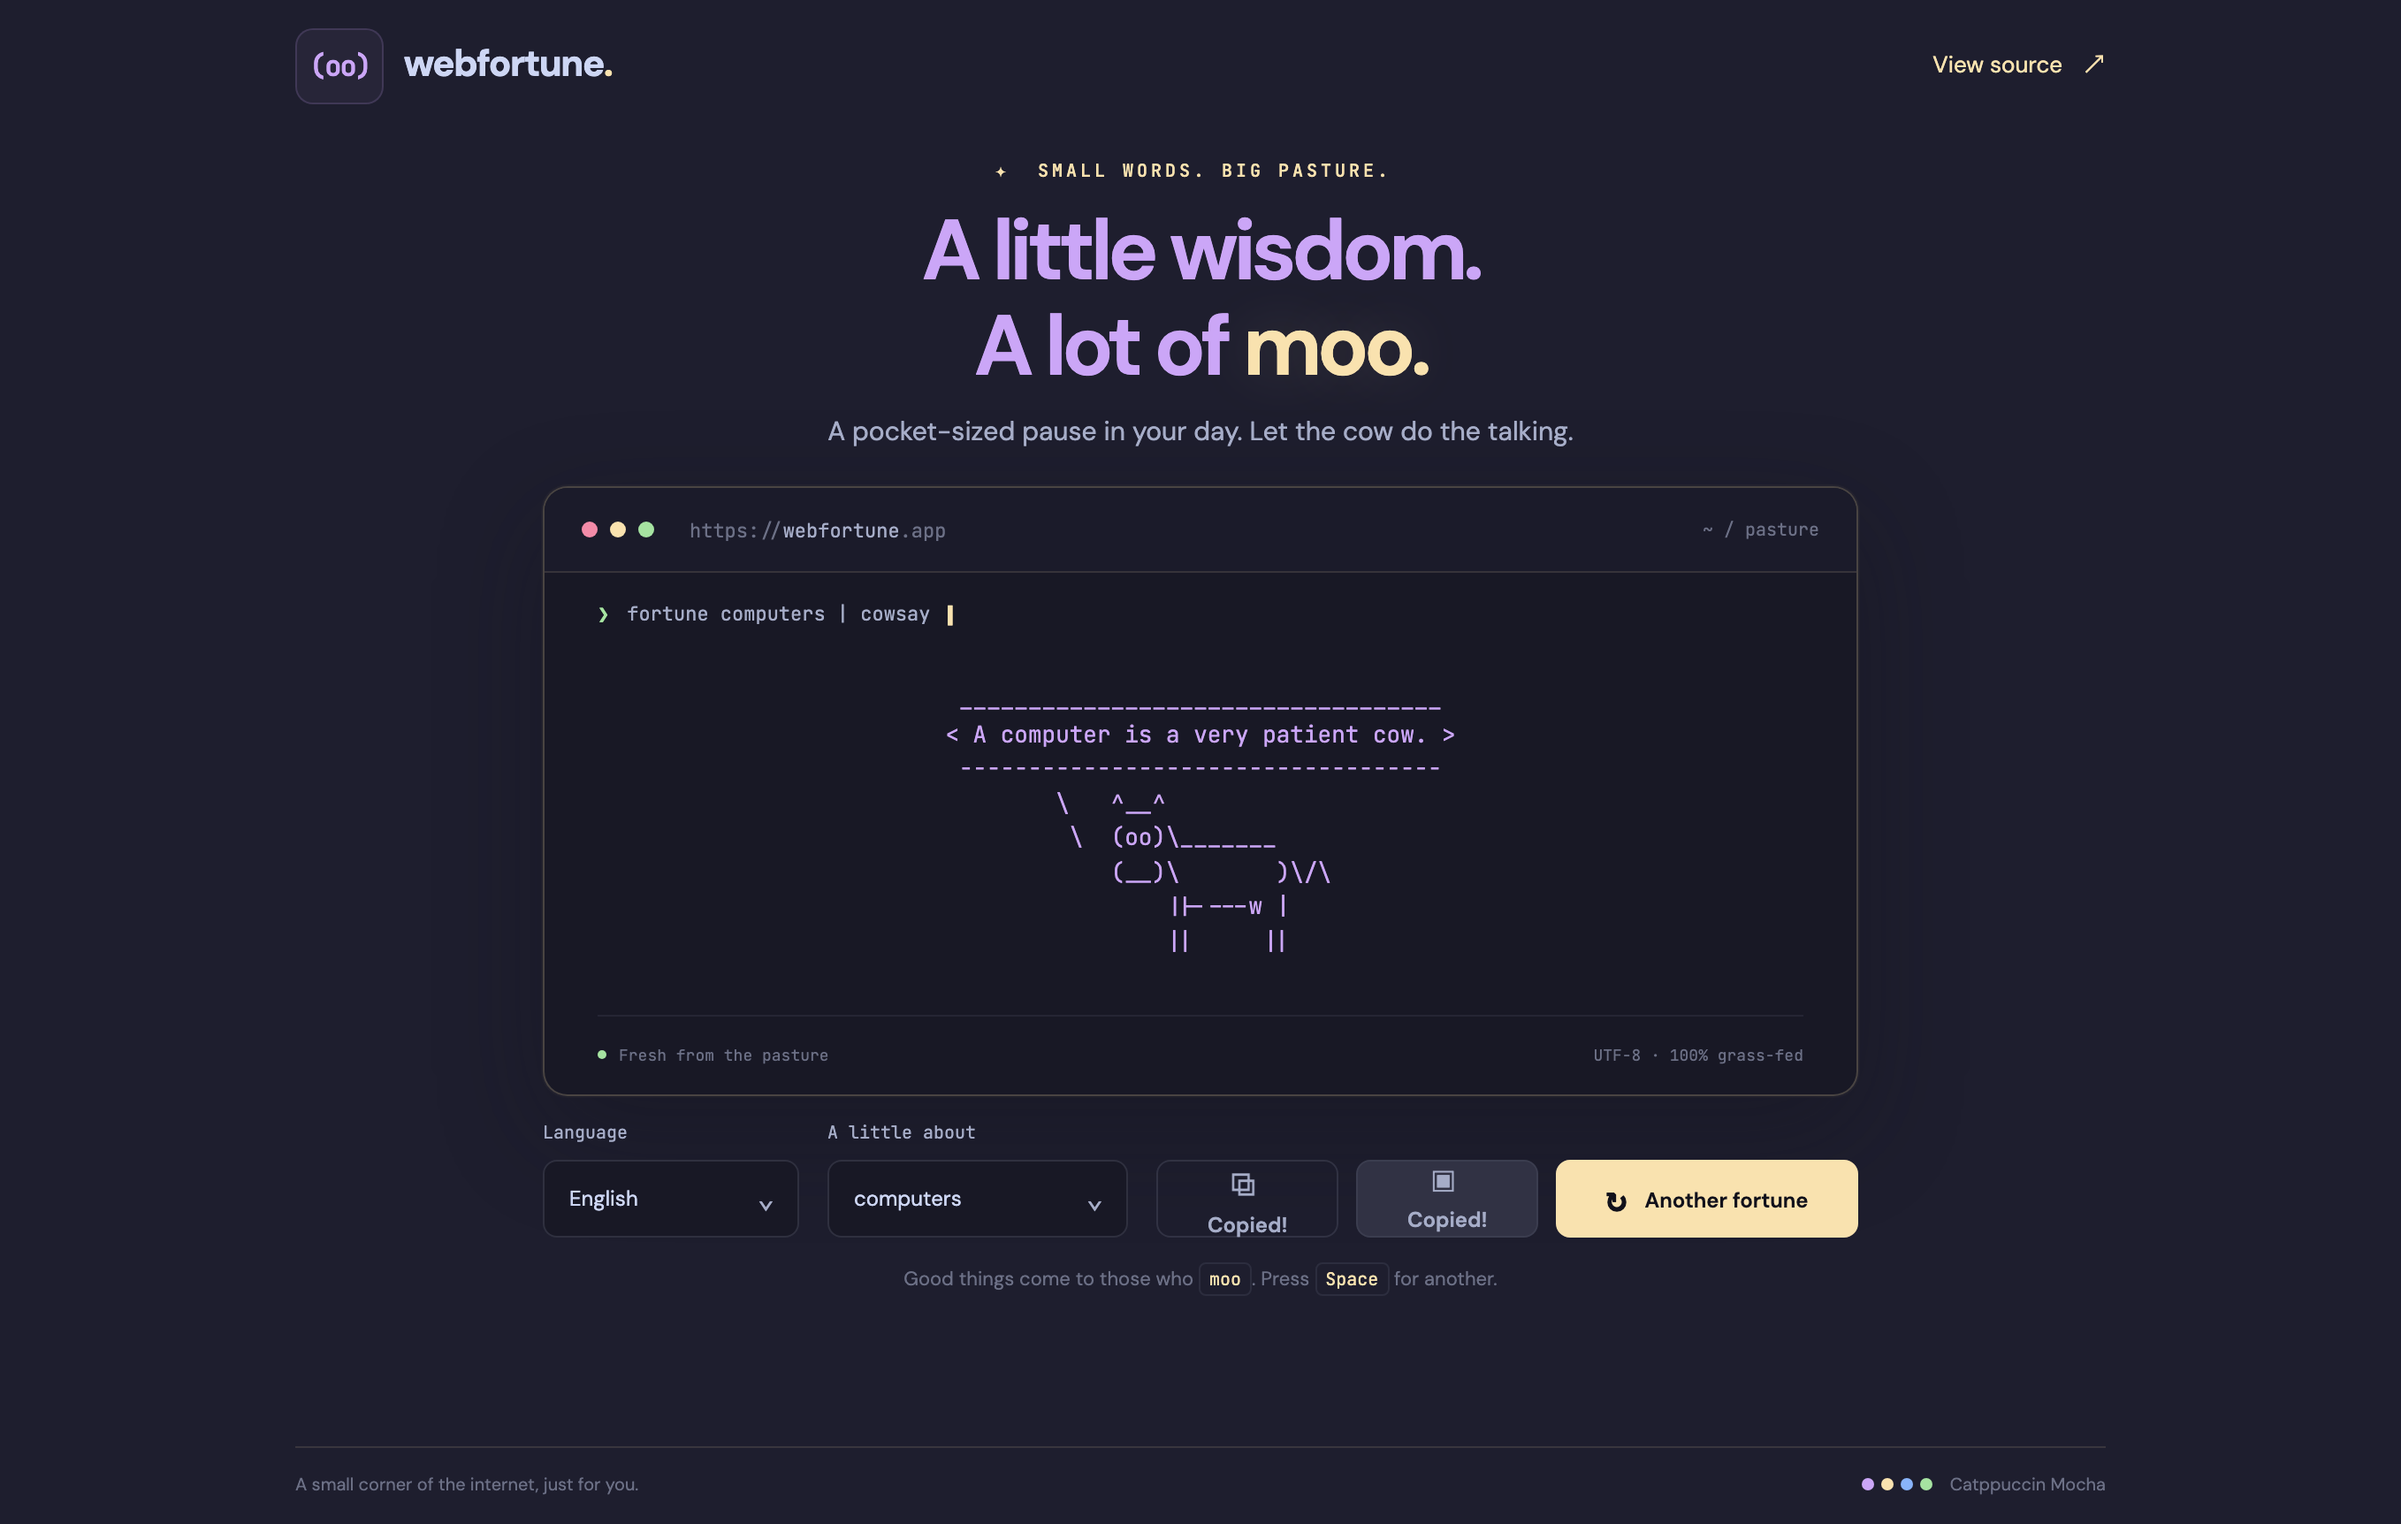
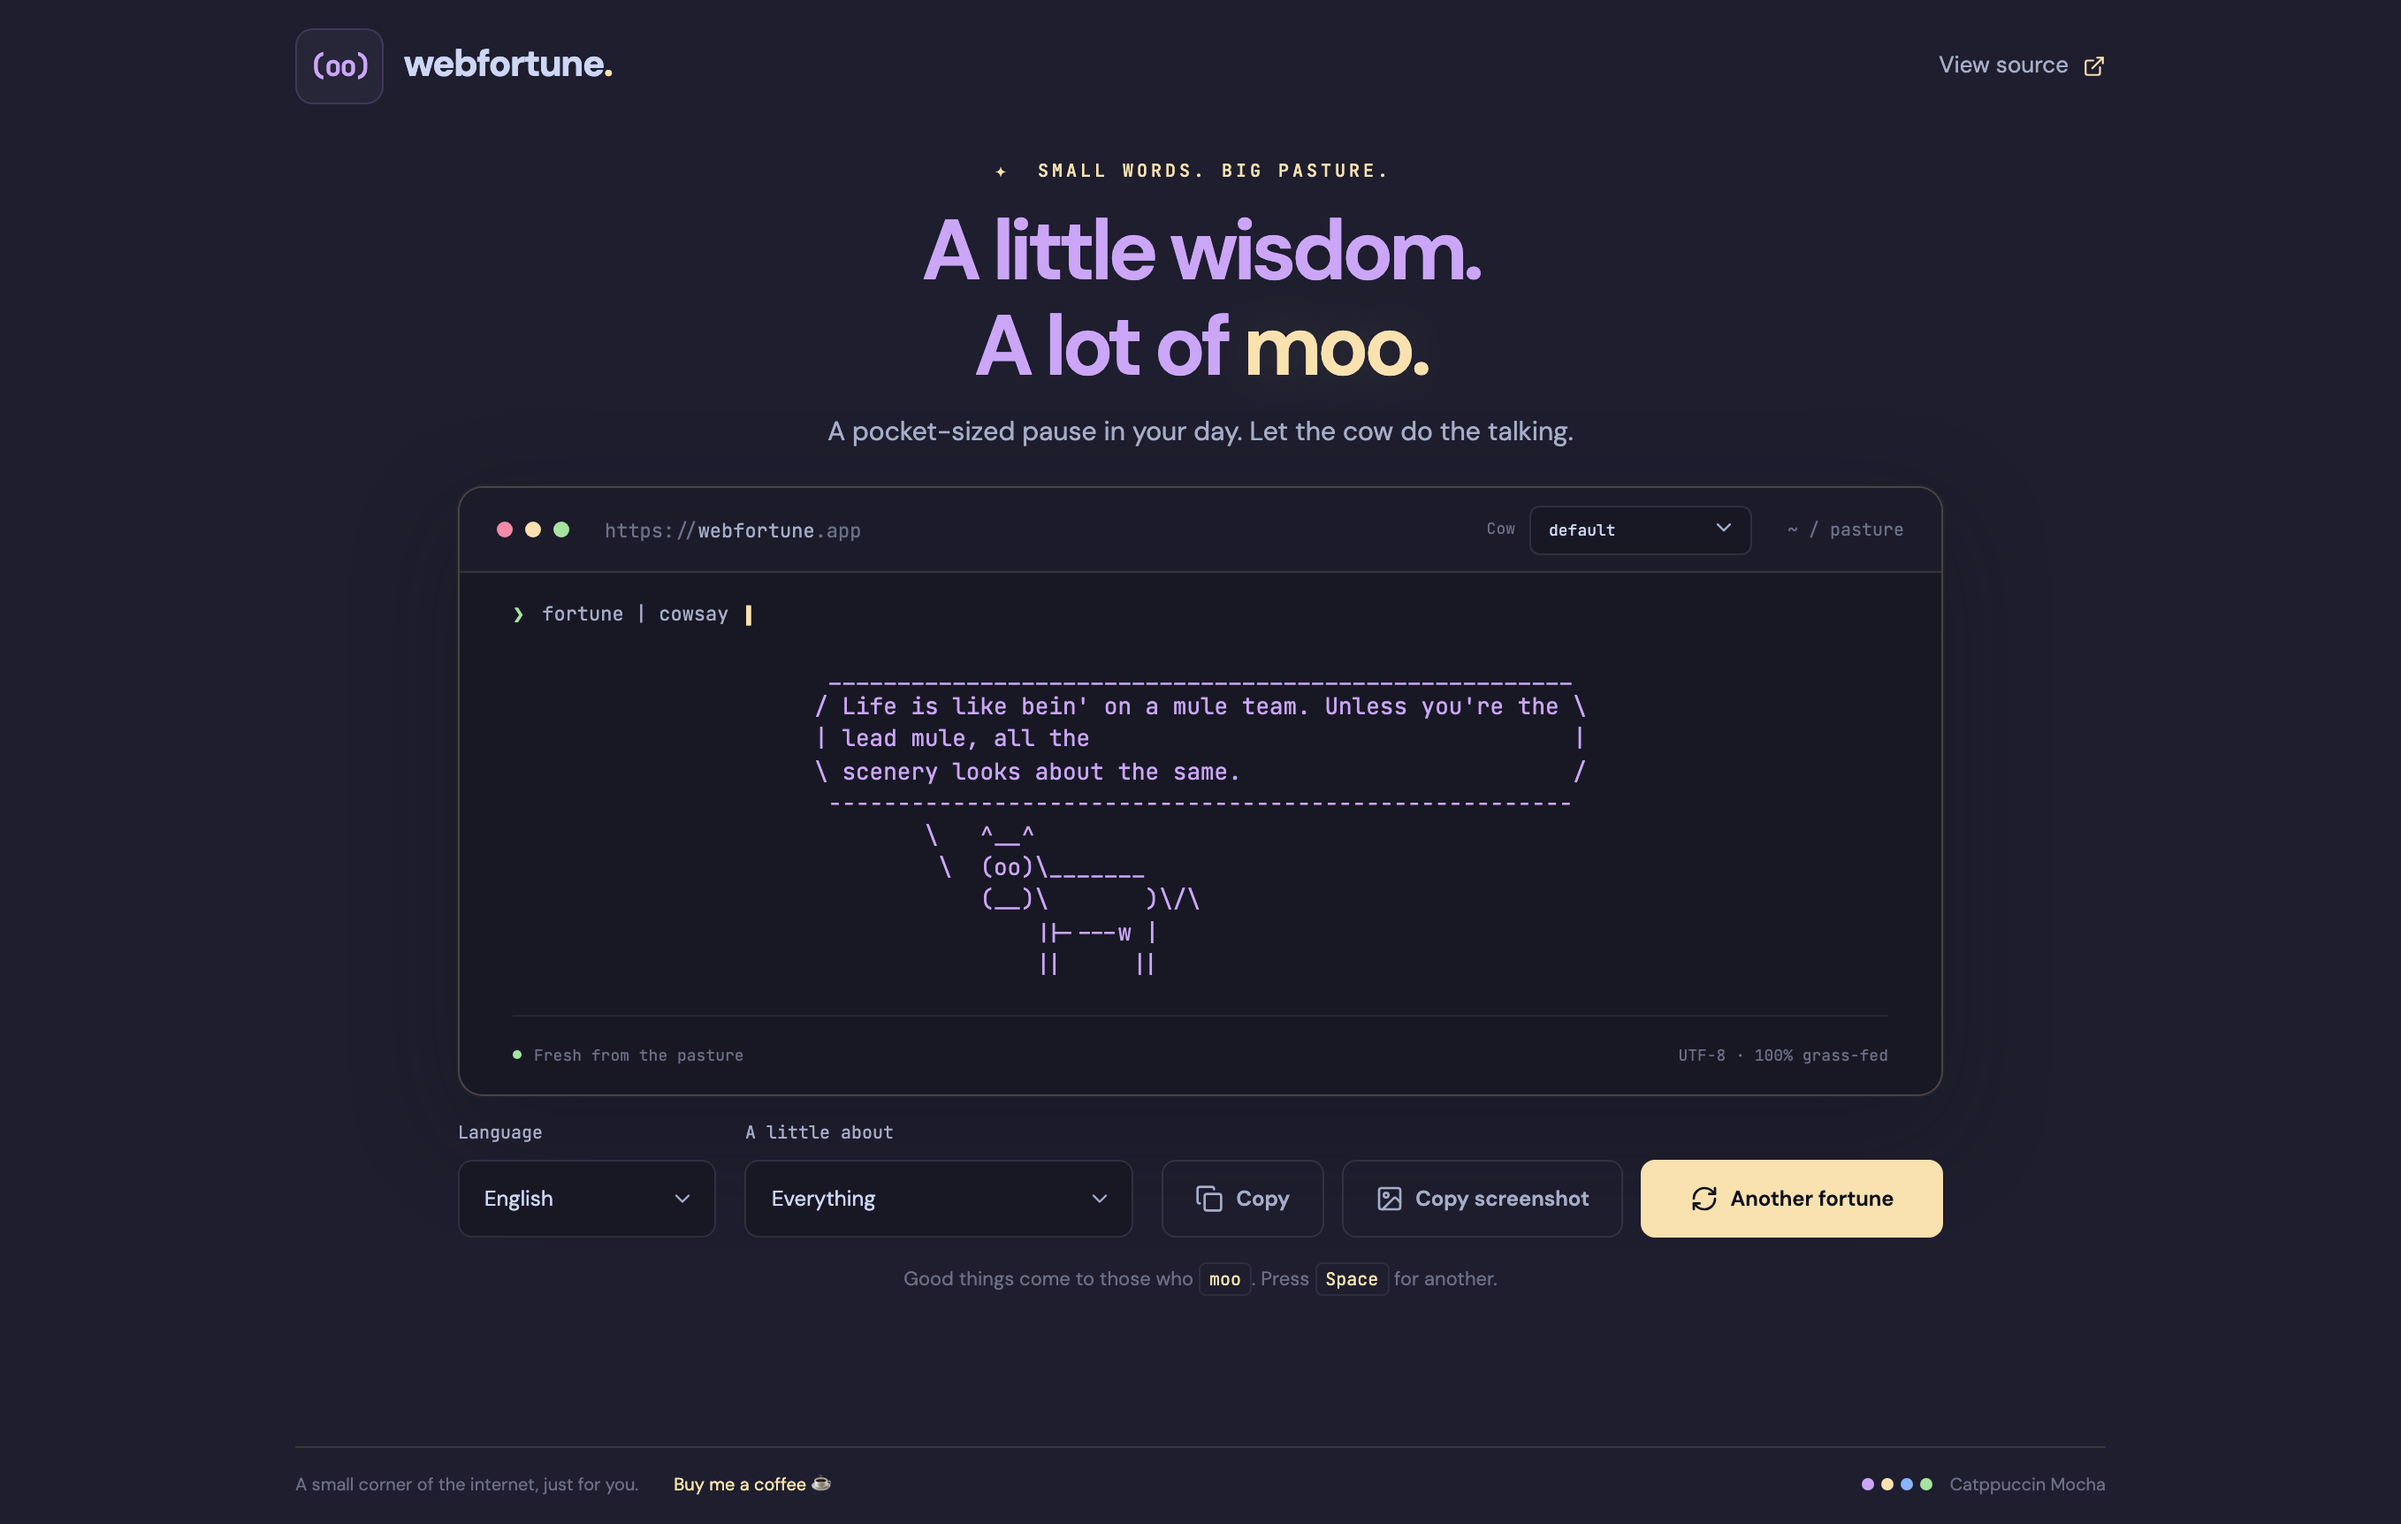
docs: refresh Webfortune and Cinema Club highlights
- Webfortune: Rust API on Cloudflare Workers (WebAssembly) with rate
  limiting, cow picker and screenshot copy; fresh desktop capture
- Cinema Club: Ledger redesign, Saved tab, Claude-on-Bedrock pitches;
  link the live web app and use the new Playwright showcase capture
- Add a Cloudflare Workers badge

diff --git a/README.md b/README.md
@@ -16,22 +16,22 @@
   ·
   <a href="https://rodrinac.github.io/enceladus">Enceladus</a>
   ·
-  <a href="https://github.com/rodrinac/cinemaclub">Cinema Club</a>
+  <a href="https://cinemaclub.expo.app/">Cinema Club</a>
 </p>
 
 ## Featured work
 
 ### [Webfortune](https://github.com/rodrinac/webfortune) 🐮
 
-A multilingual fortune API and playful cowsay-inspired web experience. Rust powers the backend, while the responsive Catppuccin interface is deployed through AWS and GitHub Pages.
+A multilingual fortune API and playful cowsay-inspired web experience. The Rust API now compiles to WebAssembly and runs on Cloudflare's edge at `api.webfortune.app` with per-client rate limiting, while the original AWS Lambda deployment keeps running alongside it. The responsive Catppuccin interface on GitHub Pages lets you pick a language, a topic, and even the cow, then copy the fortune as text or as a screenshot.
 
 <p align="center">
   <a href="https://webfortune.app/">
-    <img src="assets/webfortune.png" width="100%" alt="Webfortune desktop interface with a fortune displayed in a cowsay-style terminal" />
+    <img src="assets/webfortune.png" width="100%" alt="Webfortune desktop interface with a fortune in a cowsay-style terminal, cow picker, and language and topic controls" />
   </a>
 </p>
 
-`Rust` · `JavaScript` · `Vite` · `Playwright` · `AWS Lambda` · `Terraform`
+`Rust` · `WebAssembly` · `Cloudflare Workers` · `JavaScript` · `Vite` · `Playwright` · `AWS Lambda` · `Terraform`
 
 ### [Enceladus](https://github.com/rodrinac/enceladus) 🪐
 
@@ -47,15 +47,15 @@ Burn-data reporting for researchers at the Brazilian Burn Society (SBQ). A Next.
 
 ### [Cinema Club](https://github.com/rodrinac/cinemaclub) 🎬
 
-A cozy movie-discovery app built with React Native and Expo. It runs across mobile and web, with a secure AWS API layer between the client and TMDB.
+A cozy movie-discovery app built with React Native and Expo for iOS, Android, and the web. Its recent "Ledger" redesign brings a new brand, responsive navigation, Now / Top Rated / Upcoming tabs, and a Saved list. Every movie gets a spoiler-free "why watch" pitch, written by Claude on Amazon Bedrock from TMDB facts, all behind a hardened AWS proxy that keeps the TMDB credentials off the client.
 
 <p align="center">
-  <a href="https://github.com/rodrinac/cinemaclub">
-    <img src="assets/cinemaclub.png" width="360" alt="Cinema Club discover screen showing a responsive grid of movie posters" />
+  <a href="https://cinemaclub.expo.app/">
+    <img src="assets/cinemaclub.png" width="360" alt="Cinema Club discover screen with Now, Top Rated, and Upcoming tabs over a grid of movie posters" />
   </a>
 </p>
 
-`React Native` · `Expo` · `TypeScript` · `AWS Lambda` · `API Gateway` · `Terraform`
+`React Native` · `Expo` · `TypeScript` · `Amazon Bedrock` · `AWS Lambda` · `API Gateway` · `Terraform`
 
 ## What I work with
 
@@ -64,6 +64,7 @@ A cozy movie-discovery app built with React Native and Expo. It runs across mobi
   <img src="https://img.shields.io/badge/React_Native-20232A?style=flat-square&logo=react&logoColor=61DAFB" alt="React Native" />
   <img src="https://img.shields.io/badge/Rust-000000?style=flat-square&logo=rust&logoColor=white" alt="Rust" />
   <img src="https://img.shields.io/badge/AWS-232F3E?style=flat-square&logo=amazonwebservices&logoColor=white" alt="AWS" />
+  <img src="https://img.shields.io/badge/Cloudflare_Workers-F38020?style=flat-square&logo=cloudflareworkers&logoColor=white" alt="Cloudflare Workers" />
   <img src="https://img.shields.io/badge/Terraform-844FBA?style=flat-square&logo=terraform&logoColor=white" alt="Terraform" />
   <img src="https://img.shields.io/badge/Playwright-2EAD33?style=flat-square&logo=playwright&logoColor=white" alt="Playwright" />
 </p>
